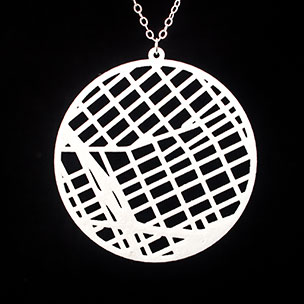
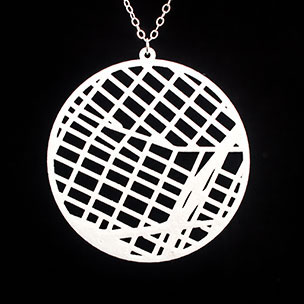
new landing diagrams

Changed region(s): [[0.148, 0.0, 0.8586, 0.8882]]

diff --git a/templates/meshu/index.html b/templates/meshu/index.html
@@ -24,27 +24,25 @@
 		</div>
 	</div>
 
-	<h2 class="big" style="margin-bottom: 20px">Make your meshu as jewelry or a print:</h2>
-    <a class="line" href="/make/facet">
-    	<img src="{{ STATIC_URL }}images/index/index_big/facet.jpg">
-    	<h3>Facet</h3>
-    </a>
-    <a class="line" href="/make/orbit">
-    	<img src="{{ STATIC_URL }}images/index/index_big/orbit.jpg">
-    	<h3>Orbit</h3>
-    </a>
-    <!-- <a class="line" href="/make/radial">
-    	<img src="{{ STATIC_URL }}images/index/index_big/radial.jpg">
-    	<h3>Radial</h3>
-    </a> -->
-    <a class="line" href="/make/arc">
-    	<img src="{{ STATIC_URL }}images/index/index_big/print_arc.jpg">
-    	<h3>Arc</h3>
-    </a>
-    <a class="line" href="/make/facet">
-    	<img src="{{ STATIC_URL }}images/index/index_big/print_facet.jpg">
-    	<h3>Facet</h3>
-    </a>
+	<h2 class="big" style="margin-bottom: 20px">Meshu is made from the places you've been:</h2>
+	<div class="one-third">
+		<a href="/make/orbit">
+			<img src="{{ STATIC_URL }}images/gallery/o2.jpg">
+			<img src="{{ STATIC_URL }}images/index/index_big/d1.png" width="100%">
+		</a>
+	</div>
+	<div class="one-third">
+		<a href="/make/grid">
+			<img src="{{ STATIC_URL }}images/gallery/g5.jpg">
+			<img src="{{ STATIC_URL }}images/index/index_big/d5.png" width="100%">
+		</a>
+	</div>
+	<div class="one-third">
+		<a href="/make/facet">
+			<img src="{{ STATIC_URL }}images/index/index_big/f-1.jpg">
+			<img src="{{ STATIC_URL }}images/index/index_big/d3.png" width="100%">
+		</a>
+	</div>
 
 	<h2 class="big">Here's how it works:</h2>
 

diff --git a/templates/meshu/make_landing.html b/templates/meshu/make_landing.html
@@ -11,20 +11,20 @@
     <div class="content-banner">Each meshu is custom-made for you!</div>   
     <div class="splitimages">
         <a href="/make/grid">
-            <img src="{{ STATIC_URL }}images/gallery/g2.jpg"/>
+            <img src="{{ STATIC_URL }}images/gallery/g3.jpg"/>
             <div class="button">Show your streets with Grid</div>
-        </a>
-    </div>
-    <div class="splitimages">
-        <a href="/make/facet">
-            <img src="{{ STATIC_URL }}images/gallery/m2.jpg"/>
-            <div class="button">Map your travels with Facet</div>
         </a>
     </div>
     <div class="splitimages">
         <a href="/make/orbit">
             <img src="{{ STATIC_URL }}images/gallery/o0.jpg"/>
             <div class="button">Trace your journey with Orbit</div>
+        </a>
+    </div>
+    <div class="splitimages">
+        <a href="/make/facet">
+            <img src="{{ STATIC_URL }}images/gallery/m2.jpg"/>
+            <div class="button">Map your travels with Facet</div>
         </a>
     </div>
     <!-- <div class="splitimages">

diff --git a/static/css/style.css b/static/css/style.css
@@ -405,6 +405,23 @@ body.win #login-form ul {
     width: 30%;
     margin: 0 5px;
 }*/
+.one-third {
+  width: 31%;
+  margin: 10px 10px 50px 10px;
+}
+.one-third a {
+  display: block;
+}
+.one-third:hover {
+  -webkit-box-shadow: 0px 0px 50px rgba(0, 0, 0, 0.1);
+  -moz-box-shadow: 0px 0px 50px rgba(0, 0, 0, 0.1);
+  box-shadow: 0px 0px 50px rgba(0, 0, 0, 0.1);
+}
+.one-third img {
+  width: 100%;
+  height: 312px;
+  float: left;
+}
 .product-shot {
   height: 400px;
   float: left;

diff --git a/static/css/style.less b/static/css/style.less
@@ -480,6 +480,21 @@ body.win #login-form ul {
     margin: 0 5px;
 }*/
 
+.one-third {
+    width: 31%;
+    margin: 10px 10px 50px 10px;
+
+    a { display: block; }
+    &:hover {
+        .shadow(50px);
+    }
+    img {
+        width: 100%;
+        height: 312px;
+        float: left;
+    }
+}
+
 
 .product-shot {
     height: 400px;
